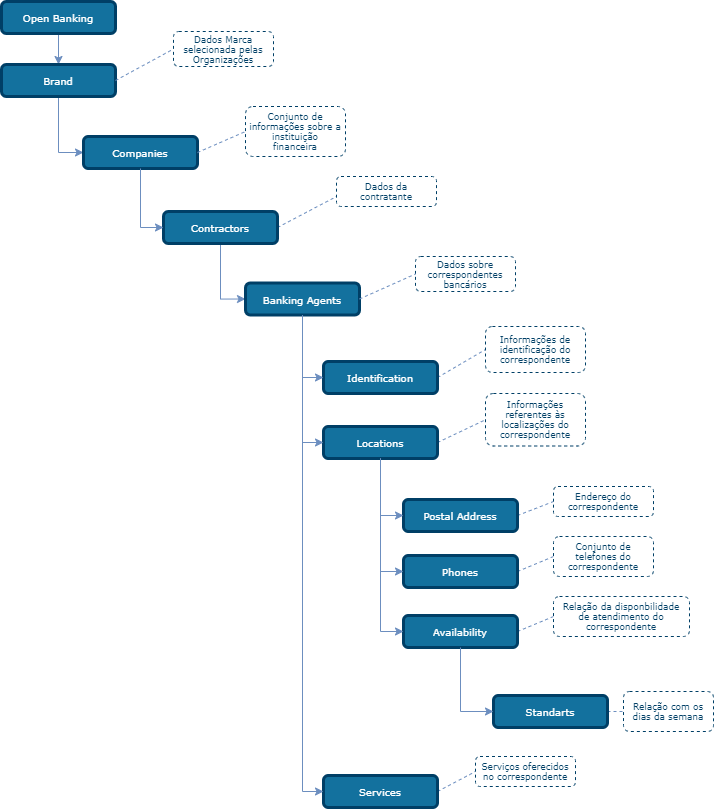
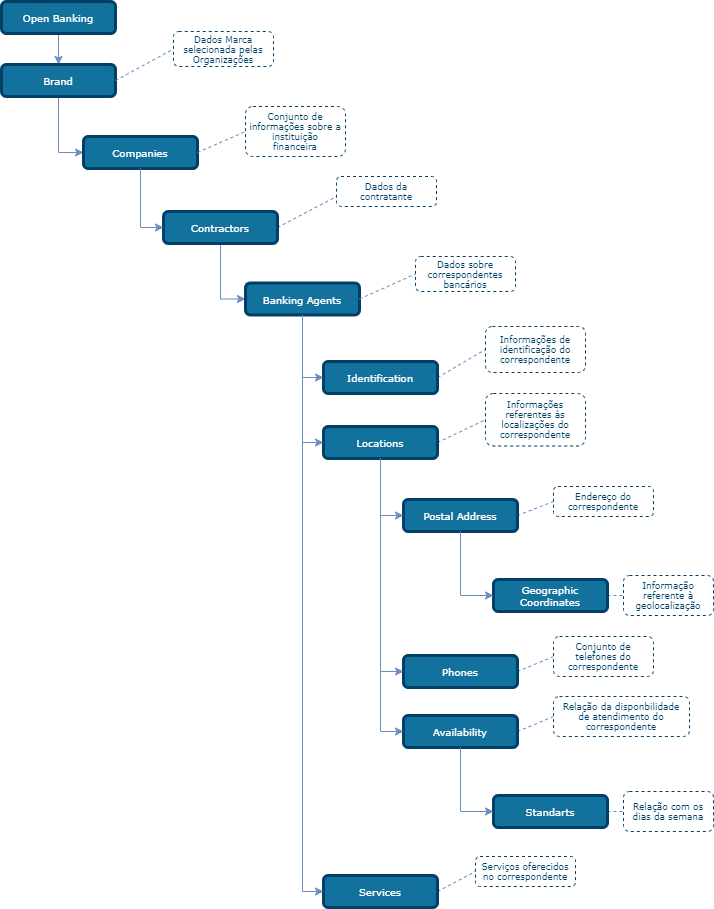
FEBRABANSD-161 - Fix geographicCoordinates at SlateDocs and examples

diff --git a/documentation/source/includes/partials_schemas/_response_banking_agents_list.md b/documentation/source/includes/partials_schemas/_response_banking_agents_list.md
@@ -35,8 +35,10 @@
                           "ibgeCode": "string",
                           "country": "string",
                           "countryCode": "string",
-                          "latitude": "string",
-                          "longitude": "string"
+                          "geographicCoordinates": {
+                            "latitude": "string",
+                            "longitude": "string"
+                          }
                         },
                         "phones": [
                           {
@@ -130,8 +132,10 @@
                     "ibgeCode": "string",
                     "country": "string",
                     "countryCode": "string",
-                    "latitude": "string",
-                    "longitude": "string"
+                    "geographicCoordinates": {
+                      "latitude": "string",
+                      "longitude": "string"
+                    }
                   },
                   "phones": [
                     {
@@ -206,8 +210,10 @@
                 "ibgeCode": "string",
                 "country": "string",
                 "countryCode": "string",
-                "latitude": "string",
-                "longitude": "string"
+                "geographicCoordinates": {
+                  "latitude": "string",
+                  "longitude": "string"
+                }
               },
               "phones": [
                 {
@@ -278,8 +284,10 @@
             "ibgeCode": "string",
             "country": "string",
             "countryCode": "string",
-            "latitude": "string",
-            "longitude": "string"
+            "geographicCoordinates": {
+              "latitude": "string",
+              "longitude": "string"
+            }
           },
           "phones": [
             {
@@ -343,8 +351,10 @@
         "ibgeCode": "string",
         "country": "string",
         "countryCode": "string",
-        "latitude": "string",
-        "longitude": "string"
+        "geographicCoordinates": {
+          "latitude": "string",
+          "longitude": "string"
+        }
       },
       "phones": [
         {
@@ -417,8 +427,10 @@
     "ibgeCode": "string",
     "country": "string",
     "countryCode": "string",
-    "latitude": "string",
-    "longitude": "string"
+    "geographicCoordinates": {
+      "latitude": "string",
+      "longitude": "string"
+    }
   },
   "phones": [
     {
@@ -462,24 +474,40 @@
   "ibgeCode": "string",
   "country": "string",
   "countryCode": "string",
-  "latitude": "string",
-  "longitude": "string"
+  "geographicCoordinates": {
+    "latitude": "string",
+    "longitude": "string"
+  }
 }
 ```
 
-| Nome               | Tipo   | Obrigatório |Descrição|
-|:---                |:---    |:---         |:---                                                           |
-| address            | string | Sim         | informação referente ao endereço do Correspondente Bancário informado: Tipo de logradouro + Nome do logradouro + Número do Logradouro (se não existir usar ' s/n') + complemento (se houver)  |
-| districtName       | string | Sim         | Bairro.                                                       |
-| townName           | string | Sim         | Cidade.                                                       |
-| countrySubDivision | string | Sim         | Estado.                                                       |
-| postCode           | string | Sim         | CEP.                                                          |                                                       
-| additionalInfo     | string | Não         | Alguns logradouros ainda necessitam ser especificados por meio de complemento, conforme o exemplo a seguir: 'Loja B', 'Fundos', 'Casa 2', 'Lote C'  |
-| ibgeCode           | string | Não         | Código IBGE de Município. A Tabela de Códigos de Municípios do IBGE apresenta a lista dos municípios brasileiros associados a um código composto de 7 dígitos, sendo os dois primeiros referentes ao código da Unidade da Federação. p.ex.'3550308' |
-| country            | string | Não         | Nome do país. p.ex. Brasil  |
-| countryCode        | string | Não         | Código do pais de acordo com o código “alpha3” do ISO-3166.p.ex.'BRA' |
-| latitude           | string | Não         | Informação da Latitude referente a geolocalização informada. Entre -90 e 90.p.ex. '-90.8365180' |
-| longitude          | string | Não         | Informação da Longitude referente a geolocalização informada. Entre -180 e 180.p.ex. '-180.836519' |
+| Nome                  | Tipo                                                                            | Obrigatório |Descrição                                                                                                                                                                                                                                            |
+|:---                   |:---                                                                             |:---         |:---                                                                                                                                                                                                                                                 |
+| address               | string                                                                          | Sim         | informação referente ao endereço do Correspondente Bancário informado: Tipo de logradouro + Nome do logradouro + Número do Logradouro (se não existir usar ' s/n') + complemento (se houver)                                                        |
+| districtName          | string                                                                          | Sim         | Bairro.                                                                                                                                                                                                                                             |
+| townName              | string                                                                          | Sim         | Cidade.                                                                                                                                                                                                                                             |
+| countrySubDivision    | string                                                                          | Sim         | Estado.                                                                                                                                                                                                                                             |
+| postCode              | string                                                                          | Sim         | CEP.                                                                                                                                                                                                                                                |                                                       
+| additionalInfo        | string                                                                          | Não         | Alguns logradouros ainda necessitam ser especificados por meio de complemento, conforme o exemplo a seguir: 'Loja B', 'Fundos', 'Casa 2', 'Lote C'                                                                                                  |
+| ibgeCode              | string                                                                          | Não         | Código IBGE de Município. A Tabela de Códigos de Municípios do IBGE apresenta a lista dos municípios brasileiros associados a um código composto de 7 dígitos, sendo os dois primeiros referentes ao código da Unidade da Federação. p.ex.'3550308' |
+| country               | string                                                                          | Não         | Nome do país. p.ex. Brasil                                                                                                                                                                                                                          |
+| countryCode           | string                                                                          | Não         | Código do pais de acordo com o código “alpha3” do ISO-3166.p.ex.'BRA'                                                                                                                                                                               |
+| geographicCoordinates | [BankingAgentsGeographicCoordinates](#schemaBankingAgentsGeographicCoordinates) | Não         | Informação referente a geolocalização informada.                                                                                                                                                                                                    |
+
+## BankingAgentsGeographicCoordinates
+<a id="schemaBankingAgentsGeographicCoordinates"></a>
+
+```json
+    {
+    "latitude": "string",
+    "longitude": "string"
+    }
+```
+
+| Nome       | Tipo   | Obrigatório |Descrição                                                                                           |
+|:---        |:---    |:---         |:---                                                                                                |
+| latitude   | string | Não         | Informação da Latitude referente a geolocalização informada. Entre -90 e 90.p.ex. '-90.8365180'    |
+| longitude  | string | Não         | Informação da Longitude referente a geolocalização informada. Entre -180 e 180.p.ex. '-180.836519' |
 
 ## BankingAgentsPhone
 <a id="schemaBankingAgentsPhone"></a>
